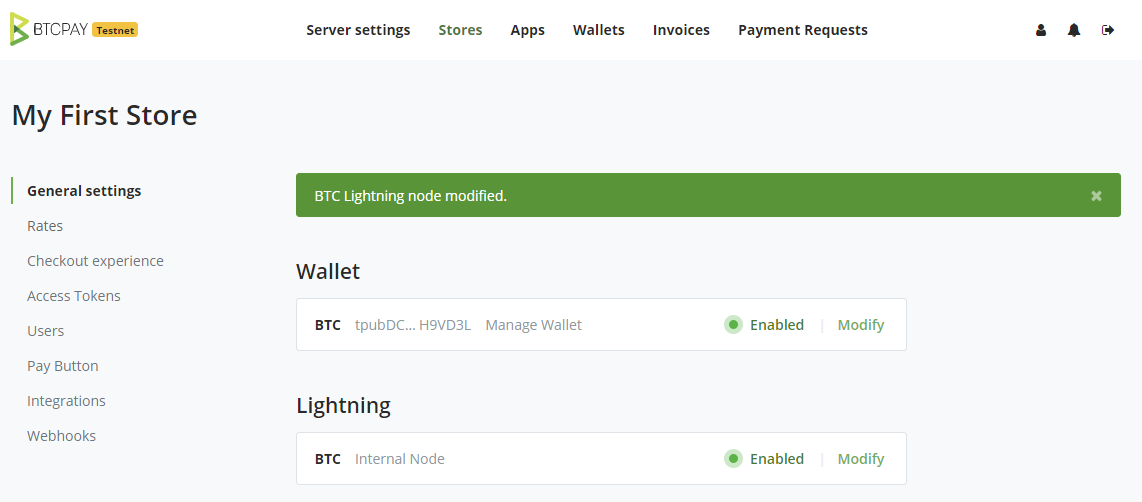
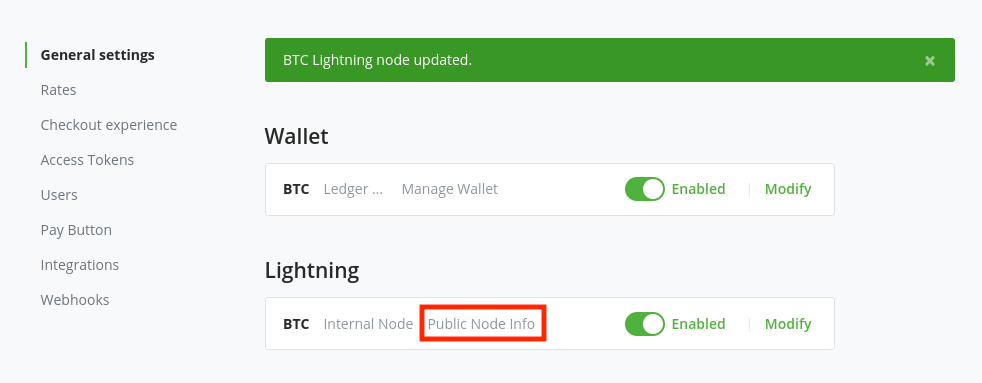
Update Lightning Network node setup docs
Closes #938

diff --git a/docs/LightningNetwork.md b/docs/LightningNetwork.md
@@ -59,28 +59,26 @@ Regardless of the implementation (c-lightning or LND) you've decided to use, the
 
 1. If you do not have a store, create one.
 2. Store > Settings > Lightning > Modify
-3. Select Use the internal Lightning node
-4. Make sure it is Enabled
-5. Click Submit
-6. See BTC Lightning node modified message
+3. Select "Use internal node"
+4. Click "Save"
+5. See "BTC Lightning node updated" message
+6. Make sure it is enabled
 
-**Your blockchain needs to be fully synced before you try to connect your Lightning Node, otherwise the connection will fail.**
+**Your blockchain needs to be fully synced before you try to connect your internal Lightning Node, otherwise the connection will fail.**
 
 ![BTCPay Server Lightning Network Setup 1](./img/lightning-node-setup/LightningNetworkNodeSetup1.png "BTCPay Server Lightning Network Setup 1")
 
-![BTCPay Server Lightning Network Setup 2](./img/lightning-node-setup/LightningNetworkNodeSetup2.png "BTCPay Server Lightning Network Setup 2")
+![BTCPay Server Lightning Network Setup 2](./img/lightning-node-setup/LightningNetworkNodeSetup2.png "Use the internal node")
 
-![BTCPay Server Lightning Network Setup 3](./img/lightning-node-setup/LightningNetworkNodeSetup3.png "BTCPay Server Lightning Network Setup 3")
+![BTCPay Server Lightning Network Setup 3](./img/lightning-node-setup/LightningNetworkNodeSetup3.png "Test the Lightning Network connection")
 
-To ensure that your lightning node is connected and accessible for use in your store's invoices, try to test your lightning connection by clicking the Test connection button. Verify that successful connection details are displayed. If your test connection fails, make sure you have a lightning implementation [enabled](./FAQ/FAQ-LightningNetwork.md#i-previously-installed-btcpayserver-without-lightning-can-i-enable-it) on your server.
+To ensure that your Lightning node is connected and accessible for use in your store's invoices, try to test your Lightning connection by clicking the "Public Node Info" link. Verify that a successful connection is displayed. If your internal node connection fails, make sure you have a Lightning implementation [enabled](./FAQ/FAQ-LightningNetwork.md#i-previously-installed-btcpayserver-without-lightning-can-i-enable-it) on your server.
 
-![BTCPay Server Lightning Network Setup 4](./img/lightning-node-setup/LightningNetworkNodeSetup4.png "BTCPay Server Lightning Network Setup 4")
-
-If you are unable to connect to your lightning node, try [restarting your server](./FAQ/FAQ-ServerSettings.md#how-to-restart-btcpay-server) or reviewing our [troubleshooting guide](./Troubleshooting.md). You will not be able to accept lightning payments in your store until your test connection shows as successful.
+If you are unable to connect to your Lightning node, try [restarting your server](./FAQ/FAQ-ServerSettings.md#how-to-restart-btcpay-server) or reviewing our [troubleshooting guide](./Troubleshooting.md). You will not be able to accept lightning payments in your store until your test connection shows as successful.
 
 ## Connecting an external Lightning Node in BTCPay
 
-If you would like to provide your own lightning node connection string, select the option to Use a custom Lightning node. If you aren't sure of which settings to use, there are some examples provided on this page to help guide you. This is typically used to connect an external lightning node to a BTCPay Server. 
+If you would like to provide your own Lightning node connection string, select the "Use custom node" option. If you aren't sure of which settings to use, there are some examples provided on this page to help guide you. This is typically used to connect an external Lightning node to a BTCPay Server.
 
 ![BTCPay Server Lightning Network Setup Custom](./img/lightning-node-setup/LightningNetworkNodeSetupCustom.png "BTCPay Server Lightning Network Setup Custom")
 
